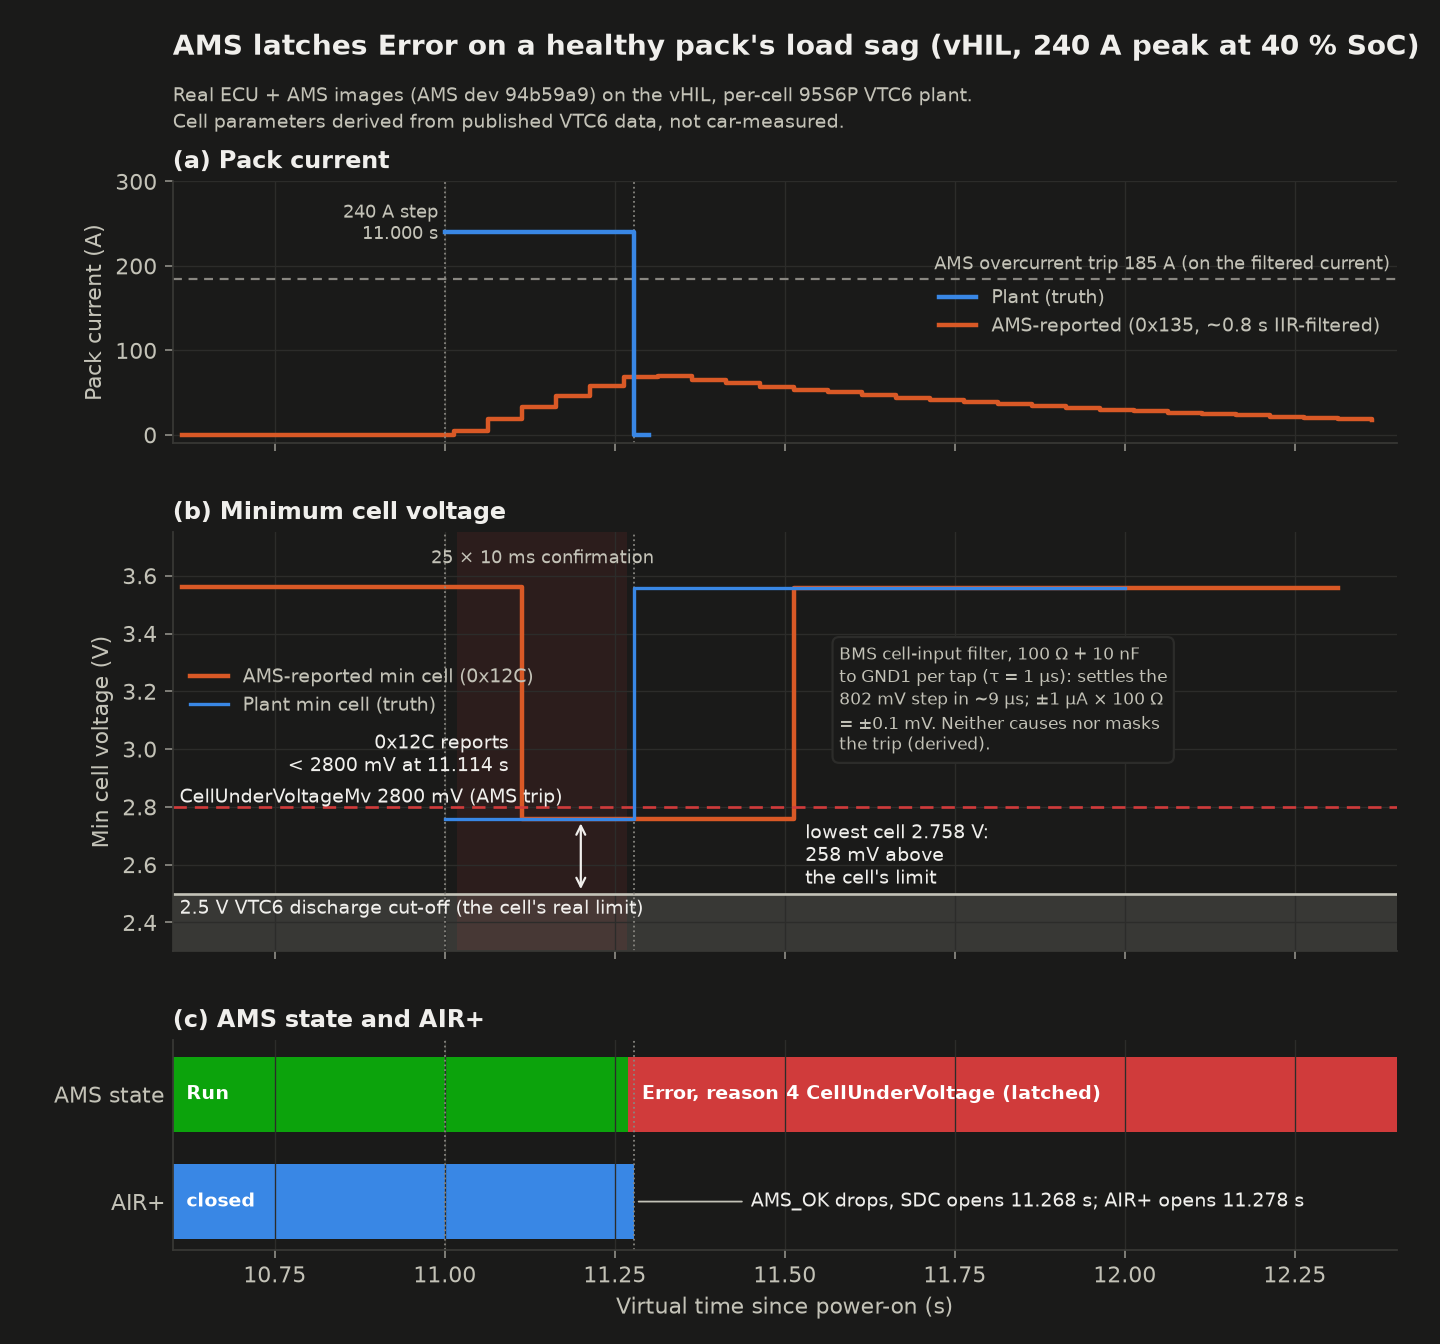
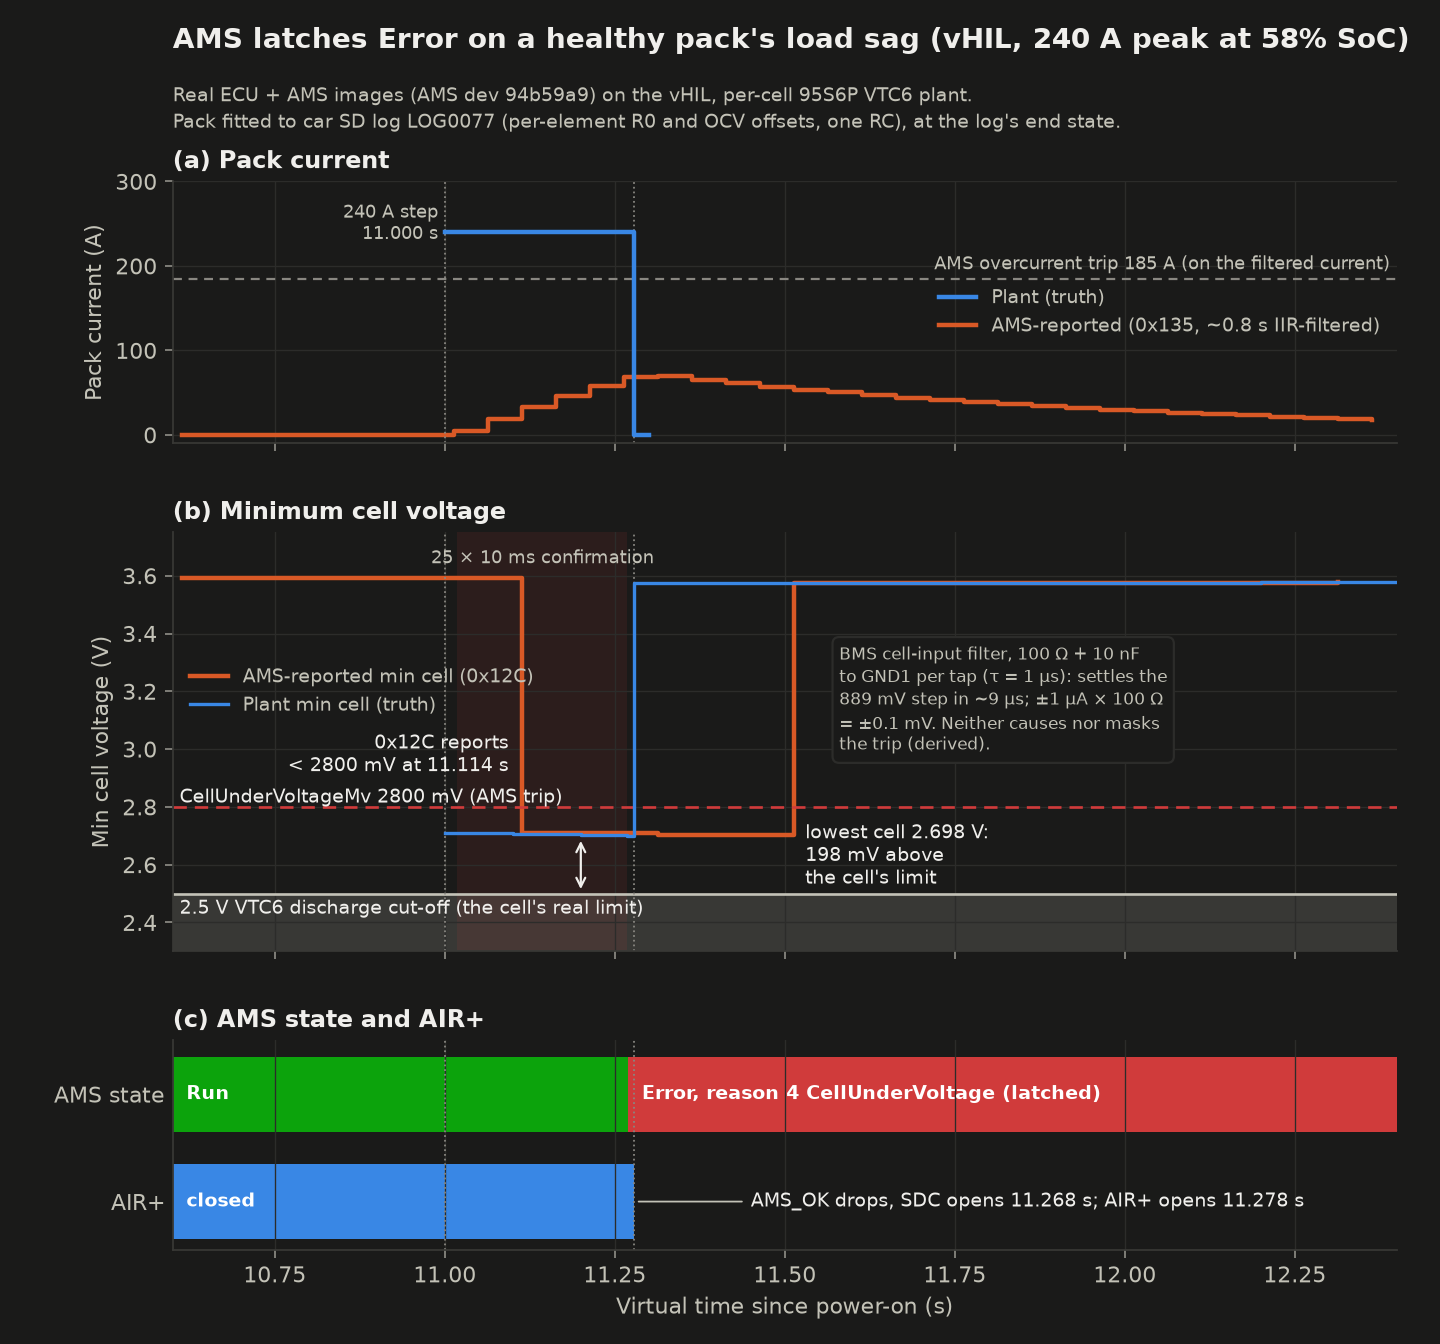
docs(analysis): regenerate the AMS#641 figures on the car-fitted pack
Figures 1-4 from the recalibrated runs (car-log0077 at LOG0077's end
state): fig2 compares the 240 A trip with the 173 A ride-through; the
fig3 trip map uses the fitted per-element R0 and offsets, the first
element to cross setting each line, beside the datasheet pack's line;
fig4 compensates with the pack's mean R0. The car subcommand and fig5
are unchanged.

Part of isc-fs/IFS08-CE-AMS#641.

diff --git a/scripts/plots/ams_641.py b/scripts/plots/ams_641.py
@@ -22,10 +22,12 @@ Two stages:
     #    (docs/analysis/ams-641/data/car-log0077.json).
     python scripts/plots/ams_641.py car --logs <dir with LOG0077.CSV>
 
-Figure 3 is derived, not run: the catalogue's VTC6 cell model
-(catalog/plants/tractive-system.yaml, the same the plant runs), evaluated for a
-1 s constant-current peak. Every cell parameter is derived from published VTC6
-data, not measured on the car.
+The runs and figure 3 use the pack fitted to the car (catalog/plants/
+tractive-system.yaml parameter set car-log0077, from car SD log LOG0077 by
+scripts/fit_pack.py: per-element R0 and OCV offsets, one RC), at the state the
+log ends in. Figure 3 is derived, not run: that cell model, the same the plant
+runs, evaluated for a 1 s constant-current peak on its first element to
+cross.
 """
 from __future__ import annotations
 
@@ -127,10 +129,21 @@ def run(out: Path) -> None:
 
 # -- the cell model (figure 3) ---------------------------------------------------------
 
-def cell_params() -> dict:
-    import yaml
-    doc = yaml.safe_load((REPO / "catalog/plants/tractive-system.yaml").read_text())
-    return {k: v["value"] for k, v in doc["parameters"].items()}
+CAR_SET = "car-log0077"   # the pack fitted to the car (catalog/plants/tractive-system.yaml)
+CAR_SOC, CAR_T_C = 0.584, 21.9   # LOG0077's end state, as the scenarios set it
+
+
+def cell_params(parameter_set=CAR_SET) -> dict:
+    """The catalogue's pack parameters with the named set put over them
+    (vhil/plant_ts.py load_parameters), with per-element lists filled in."""
+    sys.path.insert(0, str(REPO))
+    from vhil.plant_ts import load_parameters
+    p = {k: v.value for k, v in load_parameters(
+        overrides={"parameter_set": parameter_set} if parameter_set else None).items()}
+    n = int(p["cells_series"])
+    p["cell_ocv_offset"] = p["cell_ocv_offset"] or [0.0] * n
+    p["cell_r0_scale"] = p["cell_r0_scale"] or [1.0] * n
+    return p
 
 
 def ocv(p: dict, soc: float) -> float:
@@ -142,23 +155,30 @@ def ocv(p: dict, soc: float) -> float:
     return ys[-1]
 
 
-def r_elem(p: dict, t_c: float, t_s: float = 1.0) -> float:
+def r_elem(p: dict, t_c: float, t_s: float = 1.0, k=None) -> float:
     """Element resistance seen by a constant-current step after t_s:
-    R0(T) + R1 (1 - exp(-t/tau)), per 6P element (plant_pack.py's model)."""
+    R0(T) x its scale + R1 (1 - exp(-t/tau)), per 6P element (plant_pack.py's
+    model); k None = the pack mean."""
     par = p["cells_parallel"]
-    r0 = p["cell_r0"] / par * max(1 + p["cell_r0_alpha"] * (t_c - 25), 0.4)
+    sc = sum(p["cell_r0_scale"]) / len(p["cell_r0_scale"]) if k is None else p["cell_r0_scale"][k]
+    r0 = p["cell_r0"] / par * sc * max(1 + p["cell_r0_alpha"] * (t_c - 25), 0.4)
     return r0 + p["cell_r1"] / par * (1 - math.exp(-t_s / p["cell_tau1"]))
 
 
-def i_to(p: dict, soc: float, t_c: float, v: float) -> float:
-    """Current at which a healthy element at soc, t_c reads v after 1 s."""
-    return max(0.0, (ocv(p, soc) - v) / r_elem(p, t_c))
+def i_to(p: dict, soc: float, t_c: float, v: float, t_s: float = 1.0) -> float:
+    """Current at which the pack's first element (each at OCV(soc) + its
+    offset, with its own R) reads v after t_s."""
+    return max(0.0, min((ocv(p, soc) + p["cell_ocv_offset"][k] - v) / r_elem(p, t_c, t_s, k)
+                        for k in range(int(p["cells_series"]))))
 
 
 def i_power(p: dict, soc: float, t_c: float, watts: float) -> float:
-    """Current of a constant-power draw on the sagged pack: I n (OCV - I R) = P."""
-    n, e, r = p["cells_series"], ocv(p, soc), r_elem(p, t_c)
-    disc = e * e - 4 * r * watts / n
+    """Current of a constant-power draw on the sagged pack: I (E - I R) = P,
+    E and R the sums over the elements."""
+    n = int(p["cells_series"])
+    e = sum(ocv(p, soc) + p["cell_ocv_offset"][k] for k in range(n))
+    r = sum(r_elem(p, t_c, 1.0, k) for k in range(n))
+    disc = e * e - 4 * r * watts
     return (e - math.sqrt(disc)) / (2 * r) if disc >= 0 else float("nan")
 
 
@@ -230,10 +250,10 @@ def fig1(plt, th, sag, path):
     fig, (a, b, c) = plt.subplots(3, 1, figsize=(9, 8.4), sharex=True,
                                   gridspec_kw={"height_ratios": [1, 1.6, 0.8], "hspace": 0.3})
     fig.subplots_adjust(left=0.12, right=0.97, top=0.865, bottom=0.07)
-    fig.suptitle("AMS latches Error on a healthy pack's load sag (vHIL, 240 A peak at 40 % SoC)",
+    fig.suptitle(f"AMS latches Error on a healthy pack's load sag (vHIL, 240 A peak at {CAR_SOC:.0%} SoC)",
                  x=0.12, ha="left", y=0.98, fontsize=12.5, fontweight="bold", color=th["ink"])
     fig.text(0.12, 0.905, "Real ECU + AMS images (AMS dev 94b59a9) on the vHIL, per-cell 95S6P VTC6 plant.\n"
-             "Cell parameters derived from published VTC6 data, not car-measured.",
+             "Pack fitted to car SD log LOG0077 (per-element R0 and OCV offsets, one RC), at the log's end state.",
              fontsize=8.5, color=th["ink2"], linespacing=1.4)
 
     # (a) current
@@ -320,12 +340,13 @@ def fig2(plt, th, sag, ride, path):
     t0, t1 = 10.6, 12.6
     fig, ax = plt.subplots(figsize=(9, 4.6))
     fig.subplots_adjust(left=0.1, right=0.97, top=0.83, bottom=0.12)
-    fig.suptitle("Same pack, two peaks: 100 A rides through, 240 A trips", x=0.1, ha="left",
+    fig.suptitle("Same pack, two peaks: 173 A rides through, 240 A trips", x=0.1, ha="left",
                  fontsize=12.5, fontweight="bold", color=th["ink"])
-    fig.text(0.1, 0.875, "AMS-reported min cell (0x12C) and plant truth, 40 % SoC, 25 °C, 1 s peak from 11.0 s. "
-             "Cell parameters derived, not car-measured.", fontsize=8.5, color=th["ink2"])
+    fig.text(0.1, 0.875, f"AMS-reported min cell (0x12C) and plant truth, car-fitted pack (LOG0077) at {CAR_SOC:.0%} SoC, "
+             f"{CAR_T_C:.0f} °C, 1 s peak from 11.0 s.\n173 A is the highest peak in LOG0077, which the car carried "
+             "with no fault.", fontsize=8.5, color=th["ink2"], linespacing=1.4)
     ax.axhspan(2.3, CUTOFF_V, color=th["band"], lw=0)
-    for doc, col, name in ((ride, th["s3"], "100 A"), (sag, th["s1"], "240 A")):
+    for doc, col, name in ((ride, th["s3"], "173 A"), (sag, th["s1"], "240 A")):
         x, y = xy(doc, "plant.ts.v_cell_min", t0 * 1e3, t1 * 1e3)
         ax.step([v / 1e3 for v in x], y, where="post", color=col, lw=1.2, alpha=0.55)
         x, y = xy(doc, "frame.ACU_v_cell_min.min_cell_mV", t0 * 1e3, t1 * 1e3)
@@ -339,7 +360,7 @@ def fig2(plt, th, sag, ride, path):
     ax.axhline(CUTOFF_V, color=th["ink2"], lw=1.2)
     ax.text(t1 - 0.01, CUTOFF_V + 0.015, "2.5 V cell cut-off", ha="right", fontsize=8.5, color=th["ink"])
     r_v = min(v for t, v in ride["series"]["plant.ts.v_cell_min"] if 10500 < t < 12500)
-    ax.text(11.5, r_v + 0.09, f"100 A: min {r_v:.2f} V, stays in Run" + ("" if not ride_err else " (ERROR?)"),
+    ax.text(11.5, r_v + 0.09, f"173 A: min {r_v:.2f} V, stays in Run" + ("" if not ride_err else " (ERROR?)"),
             fontsize=9, color=th["ink"], ha="center")
     if err:
         ax.axvline(err / 1e3, color=th["muted"], lw=0.8, ls=":")
@@ -356,62 +377,73 @@ def fig2(plt, th, sag, ride, path):
 
 
 def fig3(plt, th, path):
-    p = cell_params()
+    p, ds = cell_params(), cell_params(None)
+    tc, soc0, x0 = CAR_T_C, CAR_SOC, CAR_SOC * 100
     socs = [s / 100 for s in range(10, 101)]
     fig, ax = plt.subplots(figsize=(9, 5.6))
     fig.subplots_adjust(left=0.1, right=0.97, top=0.83, bottom=0.11)
     fig.suptitle("Trip map: which 1 s peaks falsely latch CellUnderVoltage on a healthy pack", x=0.1,
                  ha="left", fontsize=12.5, fontweight="bold", color=th["ink"])
-    fig.text(0.1, 0.865, "Derived from published VTC6 data, not car-measured: V = OCV(SoC) − I·R0(T) − RC term at 1 s,\n"
-             "per 6P element (catalog/plants/tractive-system.yaml). Healthy, balanced pack.",
-             fontsize=8.5, color=th["ink2"], linespacing=1.4)
+    fig.text(0.1, 0.865, "Derived from the pack fitted to car SD log LOG0077: V = OCV(SoC) + offset − I·R0(T) − RC term "
+             "at 1 s,\nper 6P element, each with its own R0 and offset; the first element to cross sets the line "
+             "(catalog/plants/tractive-system.yaml).", fontsize=8.5, color=th["ink2"], linespacing=1.4)
     pct = [s * 100 for s in socs]
-    i28_25 = [i_to(p, s, 25, UV_MV / 1e3) for s in socs]
+    i28 = [i_to(p, s, tc, UV_MV / 1e3) for s in socs]
     i28_10 = [i_to(p, s, 10, UV_MV / 1e3) for s in socs]
-    i25_25 = [i_to(p, s, 25, CUTOFF_V) for s in socs]
+    i25 = [i_to(p, s, tc, CUTOFF_V) for s in socs]
     i25_10 = [i_to(p, s, 10, CUTOFF_V) for s in socs]
-    ip = [i_power(p, s, 25, P_ECU_W) for s in socs]
+    i28_ds = [i_to(ds, s, 25, UV_MV / 1e3) for s in socs]
+    ip = [i_power(p, s, tc, P_ECU_W) for s in socs]
     top = 600
-    # false-trip region at 25 C: above the 2800 mV line, below the 2.5 V line
-    ax.fill_between(pct, i28_25, [min(top, v) for v in i25_25], color=th["crit"], alpha=0.14, lw=0)
-    ax.fill_between(pct, [min(top, v) for v in i25_25], [top] * len(pct), color=th["band"], lw=0)
-    ax.plot(pct, i28_25, color=th["crit"], label="AMS trips (2800 mV), 25 °C")
+    # false-trip region at the car's temperature: above the 2800 mV line, below the 2.5 V line
+    ax.fill_between(pct, i28, [min(top, v) for v in i25], color=th["crit"], alpha=0.14, lw=0)
+    ax.fill_between(pct, [min(top, v) for v in i25], [top] * len(pct), color=th["band"], lw=0)
+    ax.plot(pct, i28, color=th["crit"], label=f"AMS trips (2800 mV), {tc:.0f} °C")
     ax.plot(pct, i28_10, color=th["crit"], ls=(0, (5, 3)), label="AMS trips (2800 mV), 10 °C")
-    ax.plot(pct, i25_25, color=th["ink2"], label="Cell really at 2.5 V, 25 °C")
+    ax.plot(pct, i25, color=th["ink2"], label=f"Cell really at 2.5 V, {tc:.0f} °C")
     ax.plot(pct, i25_10, color=th["ink2"], ls=(0, (5, 3)), label="Cell really at 2.5 V, 10 °C")
+    ax.plot(pct, i28_ds, color=th["muted"], lw=1, ls=(0, (1, 2)),
+            label="AMS trips, datasheet pack (uniform, balanced), 25 °C")
     ax.plot(pct, ip, color=th["s1"], lw=1.6, label="ECU 76 kW limit at full power (current on the sagged pack)")
     ax.axhline(OC_A, color=th["s2"], lw=1.4, ls=(0, (2, 2)))
     ax.text(99, OC_A + 6, "AMS overcurrent 185 A (filtered, ~0.8 s; a 1 s 240 A peak reads ~172 A)",
             ha="right", fontsize=8, color=th["ink2"])
-    ax.text(80, 372, "false trip: cell healthy,\nAMS opens AIR+", fontsize=9, color=th["ink"], ha="center",
-            va="center")
+    ax.annotate("shaded: false trip, cell healthy,\nAMS opens AIR+", xy=(78, 275), xytext=(66, 120),
+                fontsize=8.5, color=th["ink"], arrowprops=dict(arrowstyle="-", color=th["ink2"], lw=0.8))
     ax.text(14, 560, "cell below 2.5 V", fontsize=8.5, color=th["ink2"])
-    ax.plot([40], [240], "o", ms=9, color=th["crit"], mec=th["surface"], mew=2, zorder=5)
-    ax.annotate("vHIL repro: 40 %, 240 A → Error", xy=(40, 240), xytext=(46, 300), fontsize=9,
-                color=th["ink"], arrowprops=dict(arrowstyle="-", color=th["ink2"], lw=0.8))
-    ax.plot([40], [100], "o", ms=9, color=th["s3"], mec=th["surface"], mew=2, zorder=5)
-    ax.annotate("control: 40 %, 100 A → no fault", xy=(40, 100), xytext=(46, 60), fontsize=9,
-                color=th["ink"], arrowprops=dict(arrowstyle="-", color=th["ink2"], lw=0.8))
+    ax.axvline(x0, color=th["muted"], lw=0.8, ls=":")
+    ax.plot([x0], [240], "o", ms=9, color=th["crit"], mec=th["surface"], mew=2, zorder=5)
+    ax.annotate(f"vHIL repro: {x0:.0f} % (LOG0077's end), 240 A → Error", xy=(x0, 240), xytext=(14, 440),
+                fontsize=9, color=th["ink"], arrowprops=dict(arrowstyle="-", color=th["ink2"], lw=0.8))
+    ax.plot([x0], [173], "o", ms=9, color=th["s3"], mec=th["surface"], mew=2, zorder=5)
+    ax.annotate("control: 173 A (the car's highest peak in\nLOG0077, no fault) → no fault", xy=(x0, 173),
+                xytext=(x0 + 4, 30), fontsize=9, color=th["ink"],
+                arrowprops=dict(arrowstyle="-", color=th["ink2"], lw=0.8))
     ax.set_xlim(10, 100)
     ax.set_ylim(0, top)
     ax.set_xlabel("State of charge (%)")
     ax.set_ylabel("Peak pack current, 1 s (A)")
-    ax.legend(loc="upper right", fontsize=8, ncol=1)
+    ax.legend(loc="upper right", fontsize=7.5, ncol=1)
     fig.savefig(path, dpi=160)
     plt.close(fig)
-    i50 = i_to(p, 0.5, 25, UV_MV / 1e3)
-    i40 = i_to(p, 0.4, 25, UV_MV / 1e3)
-    i40c = i_to(p, 0.4, 10, UV_MV / 1e3)
-    return dict(i_trip_40_25=i40, i_trip_50_25=i50, i_trip_40_10=i40c,
-                i_76kw_40=i_power(p, 0.4, 25, P_ECU_W), r_elem_25=r_elem(p, 25), r_elem_10=r_elem(p, 10))
+    n = int(p["cells_series"])
+    first_k = min(range(n), key=lambda k: (ocv(p, soc0) + p["cell_ocv_offset"][k] - UV_MV / 1e3)
+                  / r_elem(p, tc, 1.0, k))
+    return dict(i_trip_car=i_to(p, soc0, tc, UV_MV / 1e3), i_trip_car_instant=i_to(p, soc0, tc, UV_MV / 1e3, 0.0),
+                i_trip_car_10=i_to(p, soc0, 10, UV_MV / 1e3), i_25v_car=i_to(p, soc0, tc, CUTOFF_V),
+                first_element=f"c{first_k // 19}_{first_k % 19}",
+                i_trip_datasheet_25=i_to(ds, soc0, 25, UV_MV / 1e3), i_76kw_car=i_power(p, soc0, tc, P_ECU_W),
+                r_elem_mean=r_elem(p, tc), r_elem_first=r_elem(p, tc, 1.0, first_k))
 
 
 def fig4(plt, th, sag, path):
     """Illustration of fix direction 1: V + I R_element, each reading paired
     with the current at the same instant (what the AMS's conversion-synchronised
-    current window gives), R_element = R0 at 25 C; the RC branch is left in."""
+    current window gives), R_element = the pack's mean R0 at the run's
+    temperature (one number for every cell, as a firmware would use); the RC
+    branch is left in."""
     p = cell_params()
-    r = p["cell_r0"] / p["cells_parallel"]
+    r = r_elem(p, CAR_T_C, 0.0)
     t0, t1 = 10.6, 12.4
 
     def held(name, t):
@@ -429,12 +461,12 @@ def fig4(plt, th, sag, path):
     err = first(sag, "symbol.g_state_telemetry", lambda x: x == 5, 10500)
     air = first(sag, "plant.ts.air_pos_closed", lambda x: x == 0, 10500)
     fig, ax = plt.subplots(figsize=(9, 4.6))
-    fig.subplots_adjust(left=0.1, right=0.97, top=0.8, bottom=0.12)
+    fig.subplots_adjust(left=0.1, right=0.97, top=0.76, bottom=0.12)
     fig.suptitle("Illustration: the same 240 A run, load-compensated (V + I·R_element)", x=0.1, ha="left",
-                 fontsize=12.5, fontweight="bold", color=th["ink"])
-    fig.text(0.1, 0.86, f"Lowest cell and pack current at the same instant (the vHIL plant; on the car, the current "
-             f"window synchronised\nto the conversion, not 0x135's filtered value), R_element = R0 = {r * 1e3:.2f} mΩ "
-             "at 25 °C. One fix direction; the choice is the AMS team's.",
+                 y=0.98, fontsize=12.5, fontweight="bold", color=th["ink"])
+    fig.text(0.1, 0.81, f"Lowest cell and pack current at the same instant (the vHIL plant; on the car, the current "
+             f"window synchronised\nto the conversion, not 0x135's filtered value), R_element = the car-fitted pack's "
+             f"mean R0 = {r * 1e3:.2f} mΩ at {CAR_T_C:.0f} °C.\nOne fix direction; the choice is the AMS team's.",
              fontsize=8.5, color=th["ink2"], linespacing=1.4)
     T = [t / 1e3 for t in grid]
     ax.plot(T, v, color=th["s2"], label="Raw lowest cell (what the AMS compares today)", drawstyle="steps-post")
@@ -442,9 +474,12 @@ def fig4(plt, th, sag, path):
     ax.axhline(UV_MV / 1e3, color=th["crit"], lw=1.2, ls=(0, (5, 3)))
     ax.text(t1 - 0.01, UV_MV / 1e3 + 0.015, "2800 mV threshold", ha="right", fontsize=8.5, color=th["ink"])
     under = [c for t, c in zip(grid, comp) if 11000 <= t < air]
-    ax.text(11.33, 3.5, f"compensated: min {min(under):.3f} V under 240 A,\n"
-            f"{(min(under) - UV_MV / 1e3) * 1e3:.0f} mV above the threshold.\nFlat by construction (the plant is the same R0 model);\n"
-            "on the car, what is left is the R_element estimate's error\n(temperature, ageing, interconnects).", fontsize=8.5, color=th["ink"], va="top")
+    rest = [c for t, c in zip(grid, comp) if t < 11000]
+    ax.text(11.33, 3.48, f"compensated: min {min(under):.3f} V under 240 A,\n"
+            f"{(min(under) - UV_MV / 1e3) * 1e3:.0f} mV above the threshold. Nearly flat: under load the\n"
+            f"lowest element is another one (higher R0): {(min(rest) - min(under)) * 1e3:.0f} mV under rest.\n"
+            "One R_element for every cell leaves that, plus the estimate's\nerror (temperature, ageing).",
+            fontsize=8.5, color=th["ink"], va="top")
     ax.axvline(air / 1e3, color=th["muted"], lw=0.8, ls=":")
     ax.text(air / 1e3 + 0.02, 2.66, f"raw reading latched Error ({err / 1e3:.3f} s);\n"
             f"AIR+ opens {air / 1e3:.3f} s, the current stops", fontsize=8.5, color=th["ink2"])
@@ -455,7 +490,7 @@ def fig4(plt, th, sag, path):
     ax.legend(loc="upper right", fontsize=8.5)
     fig.savefig(path, dpi=160)
     plt.close(fig)
-    return dict(comp_min_under_load=min(under))
+    return dict(comp_min_under_load=min(under), comp_rest=min(rest), r_element=r)
 
 
 def filter_numbers() -> dict:
@@ -466,7 +501,7 @@ def filter_numbers() -> dict:
     r, c = 100.0, 10e-9
     tau = r * c
     p = cell_params()
-    step = 240 * r_elem(p, 25, 0.0)                     # the element's i R0 step, V
+    step = 240 * r_elem(p, CAR_T_C, 0.0)                # the element's i R0 step (pack mean), V
     lsb = 100e-6
     cm_top = 10 * step                                  # 10 cells on an LTC: the top tap's CM step
     return dict(
@@ -479,8 +514,8 @@ def filter_numbers() -> dict:
         adow_open_v_per_conv=100e-6 / c * 144e-6,       # pulled while its channel pair converts
         adow_cmds_needed=1 + math.ceil(round(c / 10e-9, 6)),
         adow_cmds_needed_c11n=1 + math.ceil(11e-9 / 10e-9),
-        drop_a_trip_no_offset=0.4 / (p["cell_r0"] / p["cells_parallel"]),
-        drop_a_trip_130=(0.4 - 0.13) / (p["cell_r0"] / p["cells_parallel"]),
+        drop_a_trip_no_offset=0.4 / r_elem(p, CAR_T_C, 0.0),
+        drop_a_trip_130=(0.4 - 0.13) / r_elem(p, CAR_T_C, 0.0),
     )
 
 
